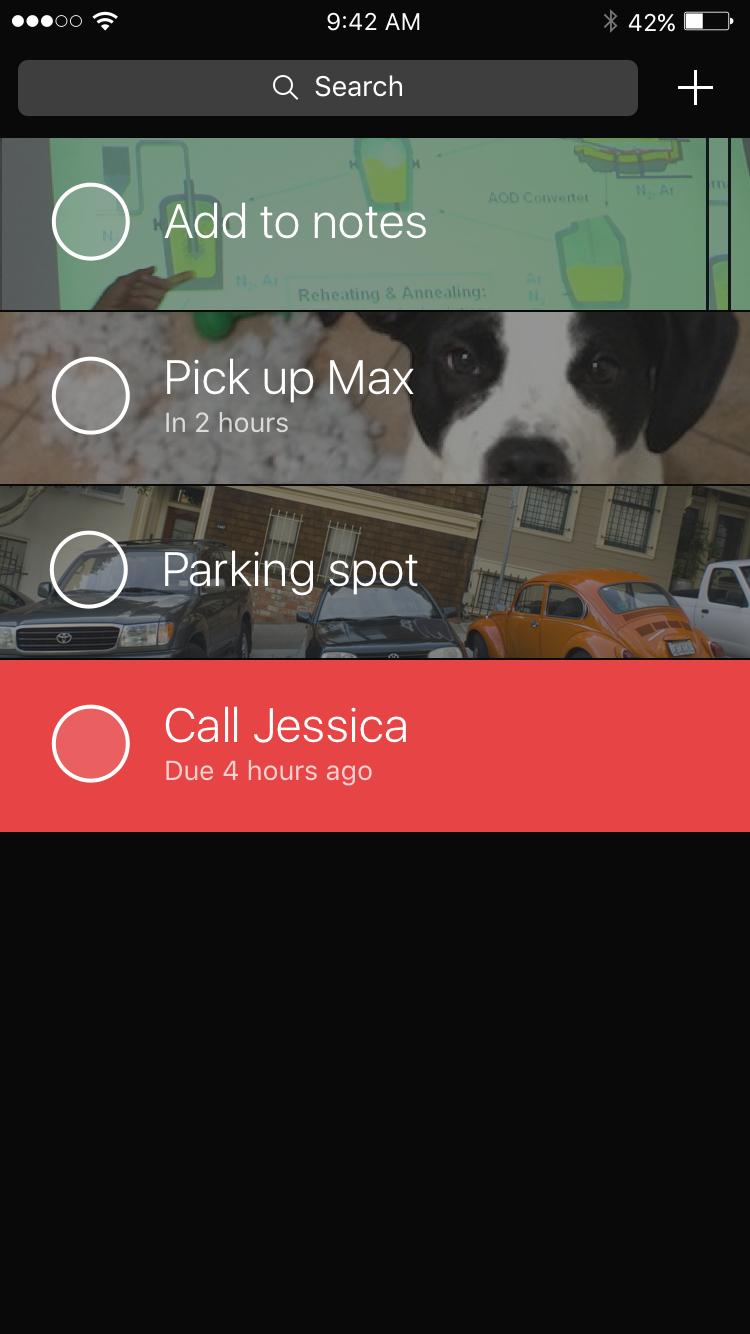
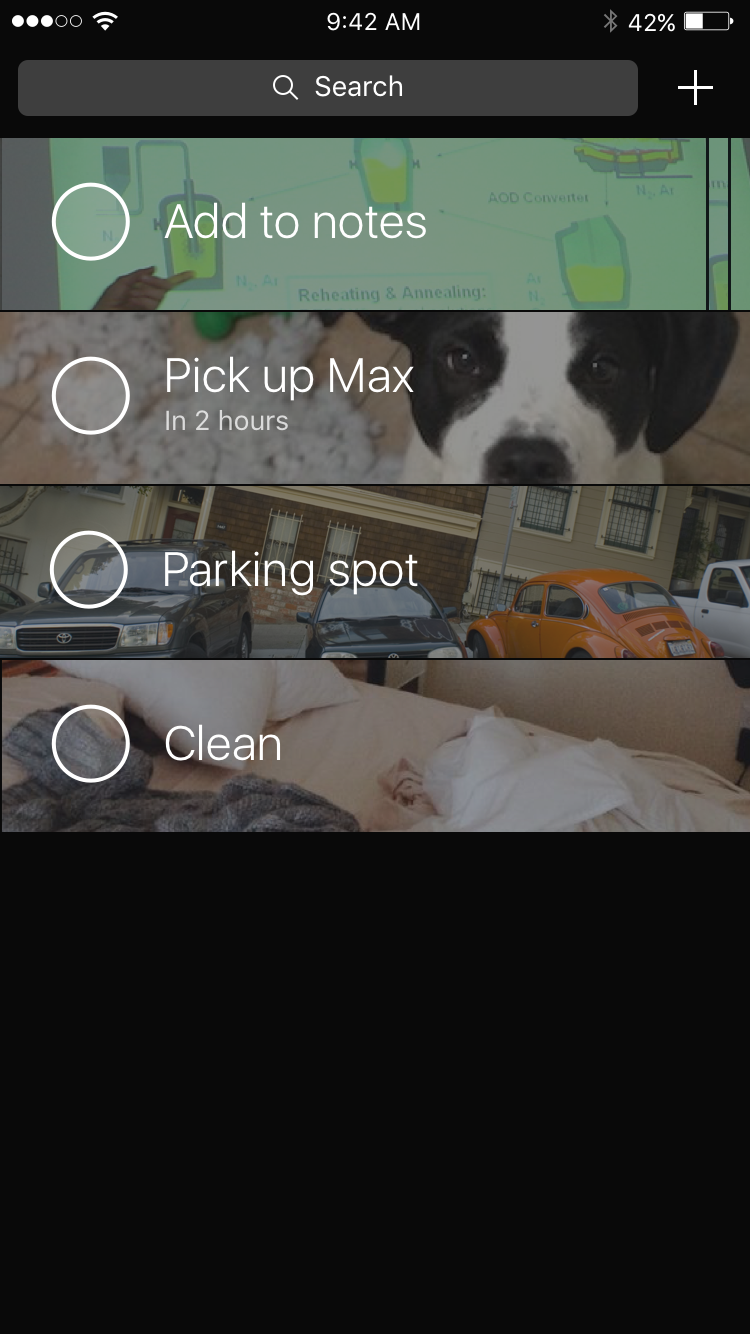
.

diff --git a/glance.html b/glance.html
@@ -129,7 +129,7 @@
     <div class="horizDivider"></div>
 
     <div class="col-2 u-text-center" style="float:left">
-      <img src="images/projects/glance/home_collection3.png" class="screen" width="60%"><br>
+      <img src="images/projects/glance/home_collection4.png" class="screen" width="60%"><br>
       <small>Home</small>
     </div>
     <div class="col-2 u-text-center" style="float:left">
